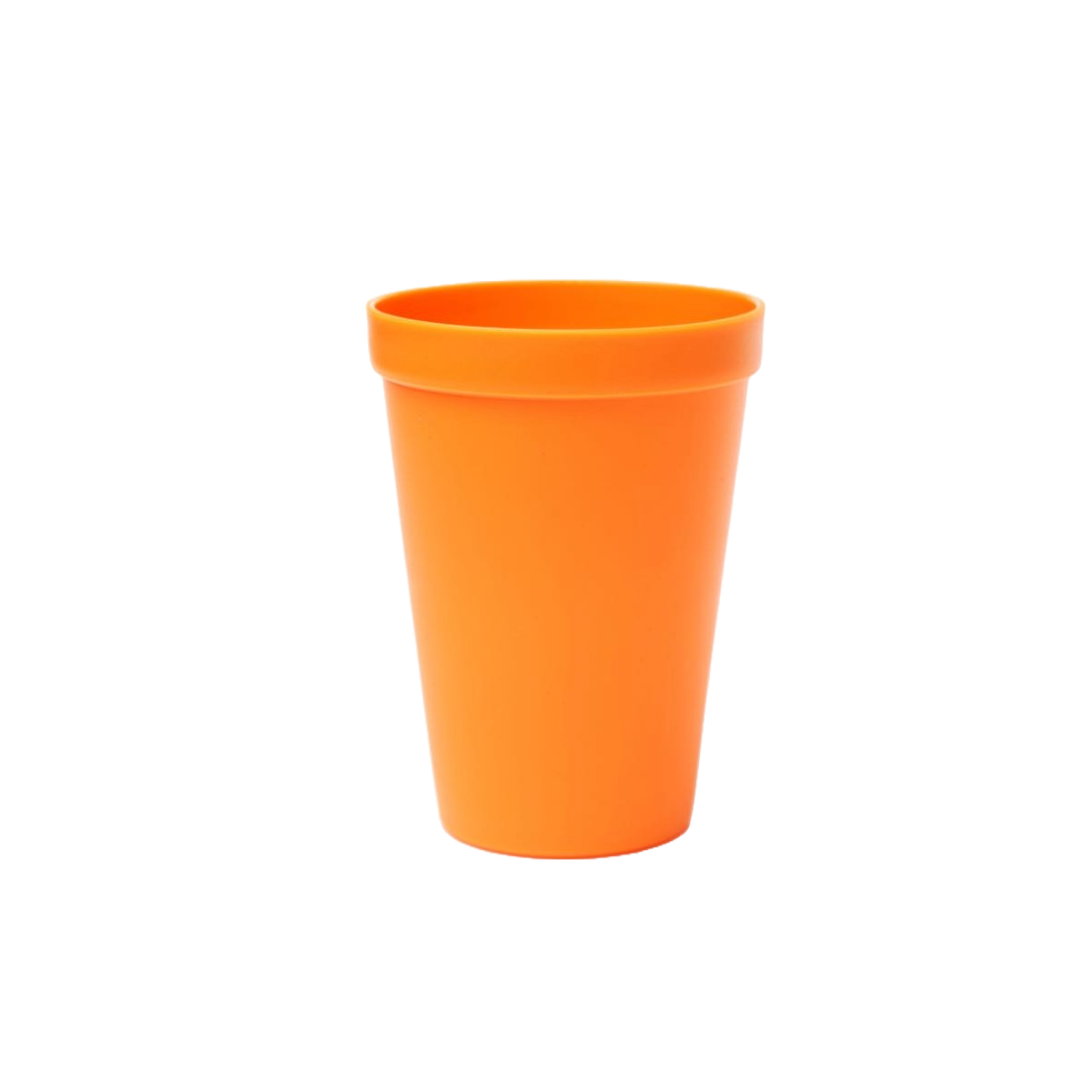
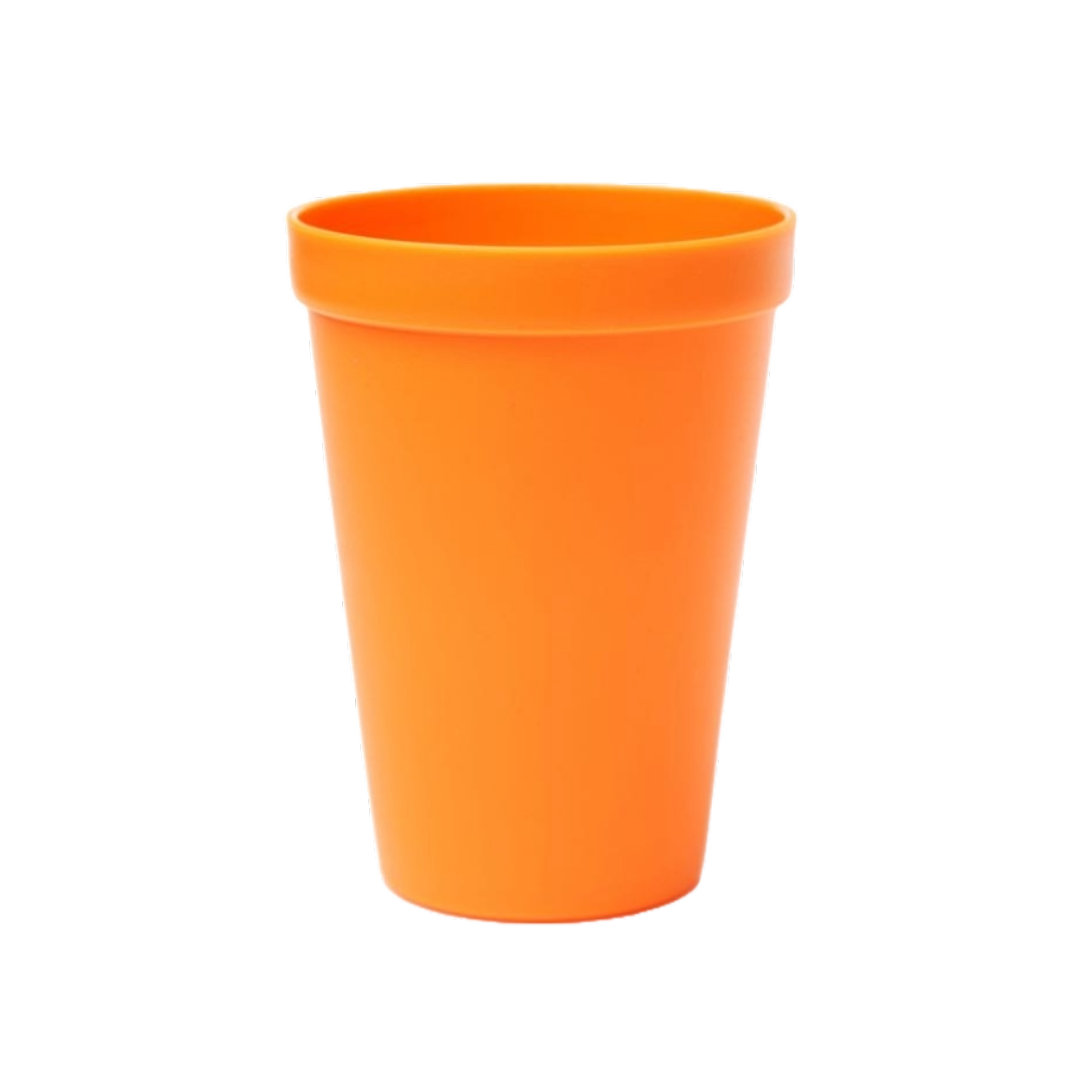
updated

Changed region(s): [[0.2444, 0.1528, 0.7333, 0.8556], [0.4278, 0.3667, 0.4583, 0.3972]]

diff --git a/src/cup-selection.html b/src/cup-selection.html
@@ -19,98 +19,86 @@
   <link href="https://fonts.googleapis.com/css2?family=DM+Serif+Text&display=swap" rel="stylesheet">
 </head>
 
-<body>
-  <div id="confirmationModal" class="modal">
-    <div class="modal-content">
-      <span class="close" onclick="closeConfirmation()">&times;</span>
-      <h2>Are you sure?</h2>
-      <p>Resetting this quiz will remove all your choices so far.</p>
-      <div class="modal-buttons">
-        <button type="button" class="close-button" onclick="closeConfirmation()">Close</button>
-        <a href="index.html" class="reset-button">Reset</a>
-      </div>
+
+
+<div class="background"></div>
+<div class="overlay"></div>
+
+
+<div id="one">
+  <div class="center-text">Choose Your Mug Type</div>
+
+  <div>
+    <div class="image-container">
+      <img id="displayed-image" src="images/w1.png">
     </div>
-  </div>
-
-  <div class="background"></div>
-  <div class="overlay"></div>
-  <div class="center-reset" onclick="Reset()">
-    Reset
-  </div>
-
-  <div id="one">
-    <div class="center-text">Choose Your Mug Type</div>
-
     <div>
-      <div class="image-container">
-        <img id="displayed-image" src="images/w1.png">
-      </div>
-      <div>
-        <button type="button" class="previous-image">
-          <img src="images/left.png">
-        </button>
-        <button type="button" class="next-image">
-          <img src="images/right.png">
-        </button>
-      </div>
+      <button type="button" class="previous-image">
+        <img src="images/left.png">
+      </button>
+      <button type="button" class="next-image">
+        <img src="images/right.png">
+      </button>
     </div>
-
-    <div type="button" class="looksgood-button1">
-      Looks Good! Next!
-    </div>
-
   </div>
-  <!-- testing for two-->
-  <!--- test eneded for two-->
+
+  <a href="index.html" class="back-button1">Back</a>
+  <div type="button" class="looksgood-button1">
+    Looks Good! Next!
+  </div>
+
+</div>
+<!-- testing for two-->
+<!--- test eneded for two-->
 
 
-  <div id="two">
-    <div class="center-text">What color do you want?</div>
+<div id="two">
+  <div class="center-text">What color do you want?</div>
+  <div>
+    <div class="image-container">
+      <img id="displayed-image-2">
+    </div>
     <div>
+      <button type="button" class="previous-image-color">
+        <img src="images/left.png" alt="Previous">
+      </button>
+      <button type="button" class="next-image-color">
+        <img src="images/right.png" alt="Next">
+      </button>
+    </div>
+  </div>
+
+  <div class="back-button2">
+    Back
+  </div>
+  <div class="looksgood-button2">
+    Looks Good! Next
+  </div>
+</div>
+
+
+<div id="three">
+  <div class="center-text">Your results</div>
+  <div class="image-container-big">
+    <div class="image-container-result">
       <div class="image-container">
-        <img id="displayed-image-2">
+        <img id="displayed-image3">
       </div>
-      <div>
-        <button type="button" class="previous-image-color">
-          <img src="images/left.png" alt="Previous">
-        </button>
-        <button type="button" class="next-image-color">
-          <img src="images/right.png" alt="Next">
-        </button>
-      </div>
-    </div>
-
-    <div class="back-button2">
-      Back
-    </div>
-    <div class="looksgood-button2">
-      Looks Good! Next
-    </div>
-  </div>
-
-
-  <div id="three">
-    <div class="center-text">Your results</div>
-    <div class="image-container-big">
-      <div class="image-container-result">
-        <div class="image-container">
-          <img id="displayed-image3">
+      <div class="image-container-text-container">
+        <div class="three-heading">
+          <h3>Great choice!</h3>
         </div>
-        <div class="image-container-text-container">
-          <div class="three-heading">
-            <h3>Great choice!</h3>
-          </div>
-          <div class="three-text">
-            <p>You're all set to be Eco-friendly with your new reusable cup. Enjoy!</p>
-          </div>
-          <a href="thankyou.html" class="button-ordernow">Order Now</a>
+        <div class="three-text">
+          <p>You're all set to be Eco-friendly with your new reusable cup. Enjoy!</p>
         </div>
+        <a href="thankyou.html" class="button-ordernow">Order Now</a>
       </div>
     </div>
   </div>
+</div>
 
 
-  <script src="js/scripts.js"></script>
+<script src="js/scripts.js"></script>
 </body>
 
 </html>

diff --git a/src/css/style.css b/src/css/style.css
@@ -47,6 +47,7 @@ contactus {
 	margin-left: 100px;
 	margin-right: 100px;
 	text-align: center;
+	margin-top: -70px;
 }
 
 .button-backtohome {
@@ -59,8 +60,8 @@ contactus {
 	transition: background-color 0.3s ease;
 	border-radius: 20px;
 	position: absolute;
-	top: 150%;
-	left: 38%;
+	top: 97%;
+	left: 42%;
 	font-size: 18px;
 }
 
@@ -514,7 +515,7 @@ nav {
 		flex-direction: column;
 		padding: 10px;
 		margin-left: 28%;
-		width:100%;
+		width: 100%;
 	}
 
 	.air-pollution-article {
@@ -672,6 +673,21 @@ body {
 	font-family: BioRhyme, serif;
 }
 
+.back-button1 {
+	position: fixed;
+	top: 90%;
+	transform: translate(-50%, -50%);
+	text-align: center;
+	font-size: 1.5rem;
+	color: #fff;
+	background-color: #122603;
+	padding: 10px 20px;
+	border-radius: 5px;
+	cursor: pointer;
+	left: 40%;
+}
+
+
 .back-button2 {
 	position: fixed;
 	top: 90%;
@@ -776,7 +792,6 @@ body {
 .looksgood-button1 {
 	position: fixed;
 	top: 90%;
-	left: 50%;
 	transform: translate(-50%, -50%);
 	text-align: center;
 	font-size: 1.5rem;
@@ -785,6 +800,7 @@ body {
 	padding: 10px 20px;
 	border-radius: 5px;
 	cursor: pointer;
+	left: 60%;
 }
 
 .image-container img,

diff --git a/src/js/scripts.js b/src/js/scripts.js
@@ -7,7 +7,7 @@
 // - You'll need to link this file to your HTML :)
 // Mug type gallery variables and functions
 let currentMugImageIndex = 1;
-let latestImagePath = "images/w1.png"
+let latestImagePath = "images/w1-white.png"
 const totalMugImages = 3; // Assuming you have 3 mug images
 
 const displayedMugImage = document.getElementById('displayed-image');
